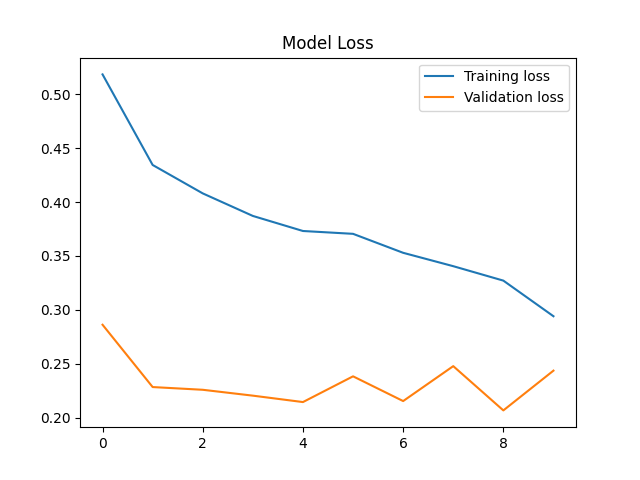
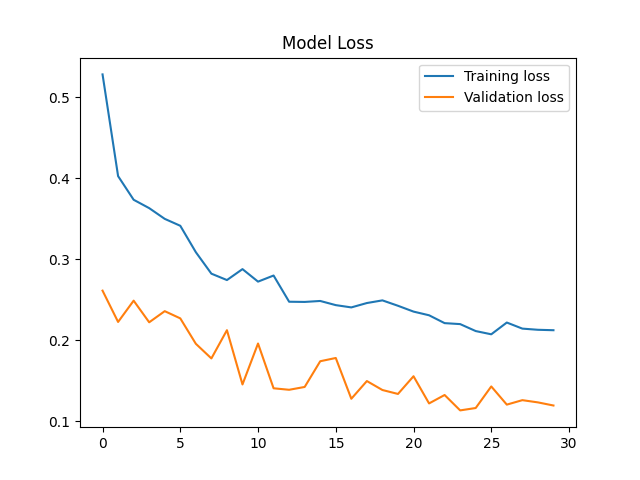
added Hyperparameters

diff --git a/anomaly/lstm_autoencoder.py b/anomaly/lstm_autoencoder.py
@@ -17,6 +17,10 @@ from sklearn.preprocessing import StandardScaler
 from tensorflow.keras.models import Sequential
 from tensorflow.keras.layers import LSTM, Dropout, RepeatVector, TimeDistributed, Dense
 
+# --- Hyperparameters ---
+SEQ_SIZE = 30  # Number of timesteps in a sequence
+THRESHOLD_PERCENTILE = 0.99  # The percentile for setting the anomaly threshold. Tune this value based on problem sensitivity.
+
 # Load dataset
 BASE_DIR = os.path.dirname(os.path.abspath(__file__))
 gePath = os.path.join(BASE_DIR, 'data/GE.csv')
@@ -66,7 +70,7 @@ def to_sequences(x, y, seq_size=1):
         y_values.append(y.iloc[i + seq_size])
     return np.array(x_values), np.array(y_values)
 
-seq_size = 30  # Number of timesteps
+seq_size = SEQ_SIZE
 trainX, trainY = to_sequences(train[['Close']], train['Close'], seq_size)
 testX, testY = to_sequences(test[['Close']], test['Close'], seq_size)
 
@@ -88,7 +92,7 @@ model.summary()
 
 # Train model
 # A standard autoencoder is trained to reconstruct its own input.
-history = model.fit(trainX, trainX, epochs=10, batch_size=32, validation_split=0.1, verbose=1)
+history = model.fit(trainX, trainX, epochs=30, batch_size=32, validation_split=0.1, verbose=1)
 
 
 # Plot training loss
@@ -107,7 +111,8 @@ plt.show()
 
 # Set a dynamic threshold based on a percentile of the training MAE.
 # This is more robust than a hardcoded value.
-max_trainMAE = np.quantile(trainMAE, 0.99)
+max_trainMAE = np.quantile(trainMAE, THRESHOLD_PERCENTILE)
+print(f"Anomaly threshold ({(THRESHOLD_PERCENTILE * 100):.0f}th percentile) set to: {max_trainMAE:.4f}")
 
 testPredict = model.predict(testX)
 testMAE = np.mean(np.abs(testPredict - testX), axis=(1, 2))
